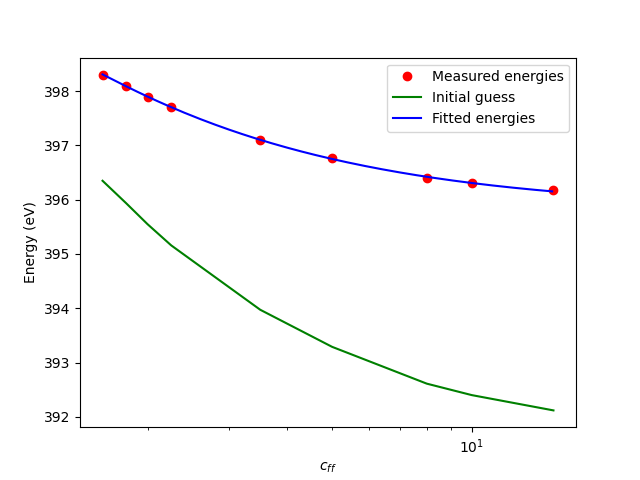
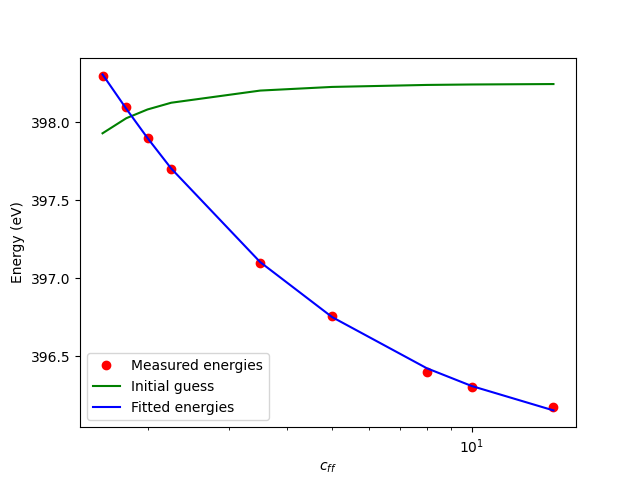
new initial guess values

diff --git a/test-PGMCalibration.py b/test-PGMCalibration.py
@@ -13,8 +13,7 @@ measured_energies = np.array([398.3, 398.1, 397.9, 397.7, 397.1, 396.76, 396.4, 
 c = PGMCalibration(N, k)
 
 # Set a reasonable initial guess manually
-c.set_initial_guess(DTheta=537E-6, DBeta=512E-6, E=400.27)  # Example initial guess values
-# c.set_initial_guess(DTheta=0, DBeta=0, E=397.0)  # Example initial guess values
+c.set_initial_guess(DTheta=0, DBeta=0, E=398)  # Example initial guess values
 
 # Perform fitting
 dtheta, dbeta, E_opt = c.fit_parameters(measured_energies, cff_values)
